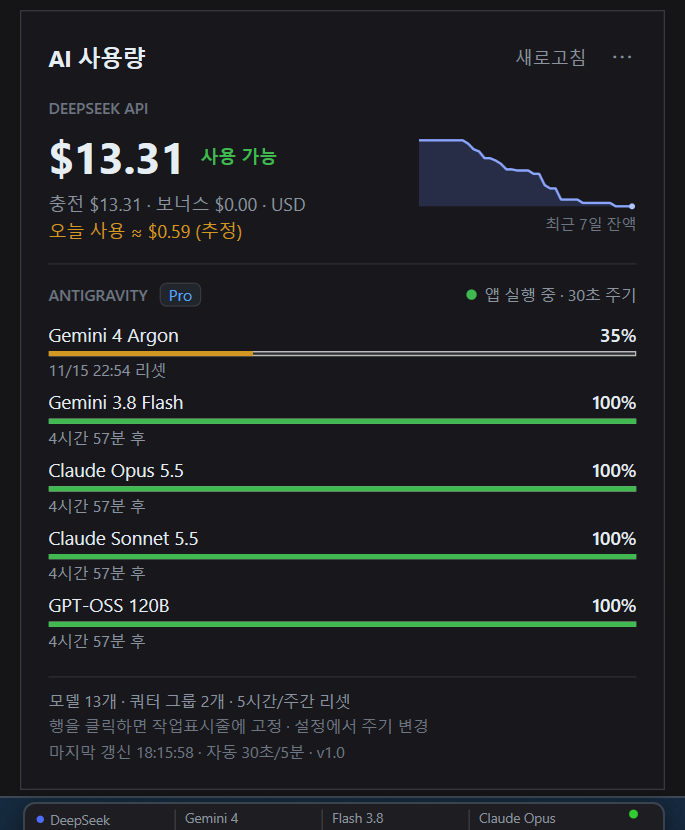
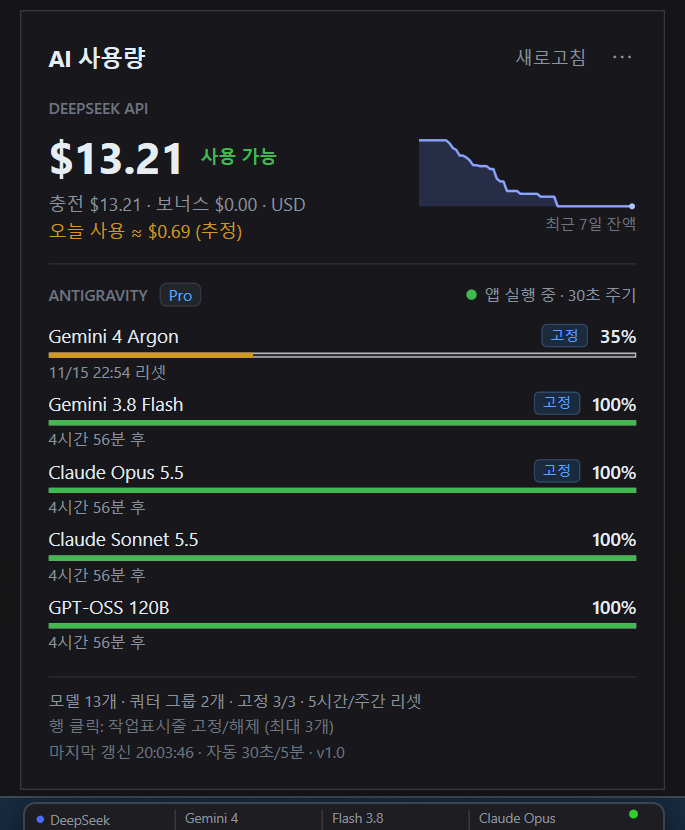
feat(flyout): 고정 상태 표시 추가
핀 고정 후 아무 표시가 없어 혼란스럽다는 피드백 반영.

- 고정된 행에 파란 '고정' 칩 표시 (호버 시 행 배경 강조)
- 요약줄에 '고정 N/3' 표시
- 안내문 '행 클릭: 작업표시줄 고정/해제 (최대 3개)'
- 독은 3슬롯이므로 4번째 고정 시도 시 저장하지 않고
  4초간 앰버 안내 문구 표시
- 행 툴팁을 상태에 따라 '고정/해제'로 변경

검증: 빌드 경고 0, 테스트 20/20, 5행 스크롤 없음, 3개 칩/4번째 거부 안내 스크린샷 확인

diff --git a/src/AiUsageDock.App/FlyoutWindow.xaml b/src/AiUsageDock.App/FlyoutWindow.xaml
@@ -129,7 +129,7 @@
                 <Border BorderBrush="#2A2A31" BorderThickness="0,1,0,0" Margin="0,0,0,8" />
                 <TextBlock x:Name="SummaryText" Text="모델 0개 · 쿼터 그룹 0개 · 5시간/주간 리셋"
                            FontSize="10.5" Foreground="#8B949E" />
-                <TextBlock Text="행을 클릭하면 작업표시줄에 고정 · 설정에서 주기 변경"
+                <TextBlock x:Name="HintText" Text="행 클릭: 작업표시줄 고정/해제 (최대 3개)"
                            FontSize="10.5" Foreground="#6E7681" Margin="0,3,0,0" />
                 <TextBlock x:Name="FooterText" Text="마지막 갱신 --:--:-- · 자동 30초/5분 · v1.0"
                            FontSize="10.5" Foreground="#6E7681" Margin="0,3,0,0" />

diff --git a/src/AiUsageDock.App/FlyoutWindow.xaml.cs b/src/AiUsageDock.App/FlyoutWindow.xaml.cs
@@ -6,6 +6,7 @@ using System.Windows;
 using System.Windows.Controls;
 using System.Windows.Input;
 using System.Windows.Media;
+using System.Windows.Threading;
 using AiUsageDock.Core.Models;
 using AiUsageDock.Core.Scheduling;
 
@@ -19,20 +20,23 @@ public partial class FlyoutWindow : Window
     private static readonly SolidColorBrush Muted = new(Color.FromRgb(0x8B, 0x94, 0x9E));
     private static readonly SolidColorBrush Track = new(Color.FromArgb(0x33, 0x8B, 0x94, 0x9E));
 
+    private const string DefaultHint = "행 클릭: 작업표시줄 고정/해제 (최대 3개)";
+
     private readonly UsageStore _store;
     private readonly Func<Task> _onRefresh;
     private readonly Action _onOpenSettings;
-    private readonly Action<string> _onTogglePin;
+    private readonly Func<string, bool> _onTogglePin;
     private readonly Func<IReadOnlyList<string>> _getPinned;
     private readonly Func<IReadOnlyList<BalanceHistoryPoint>> _getHistory;
     private DateTimeOffset _shownAtUtc;
     private bool _closing;
+    private DispatcherTimer? _hintTimer;
 
     public FlyoutWindow(
         UsageStore store,
         Func<Task> onRefresh,
         Action onOpenSettings,
-        Action<string> onTogglePin,
+        Func<string, bool> onTogglePin,
         Func<IReadOnlyList<string>> getPinned,
         Func<IReadOnlyList<BalanceHistoryPoint>> getHistory)
     {
@@ -129,9 +133,10 @@ public partial class FlyoutWindow : Window
             }
         }
 
+        var pinnedCount = _getPinned()?.Count ?? 0;
         SummaryText.Text = antigravity is null
             ? "수집된 데이터가 없습니다."
-            : $"모델 {antigravity.Models.Count}개 · 쿼터 그룹 {antigravity.PoolCount}개 · 5시간/주간 리셋";
+            : $"모델 {antigravity.Models.Count}개 · 쿼터 그룹 {antigravity.PoolCount}개 · 고정 {pinnedCount}/3 · 5시간/주간 리셋";
 
         FooterText.Text = antigravity is null
             ? "Esc 닫기 · 행 클릭: 핀 고정"
@@ -144,16 +149,22 @@ public partial class FlyoutWindow : Window
         var percent = hasValue ? group.RemainingFraction!.Value * 100.0 : 0.0;
         var accent = !hasValue ? Muted : percent > 40 ? Good : percent > 15 ? Warn : Bad;
 
-        var panel = new StackPanel
+        var row = new Border
         {
-            Margin = new Thickness(0, 0, 0, 6),
-            Cursor = Cursors.Hand,
-            ToolTip = "클릭하여 핀 고정",
             Background = Brushes.Transparent,
+            CornerRadius = new CornerRadius(4),
+            Padding = new Thickness(4, 1, 4, 1),
+            Margin = new Thickness(-4, 0, -4, 4),
+            Cursor = Cursors.Hand,
+            ToolTip = isPinned ? "클릭하여 작업표시줄에서 해제" : "클릭하여 작업표시줄에 고정",
         };
+
+        var panel = new StackPanel();
+        row.Child = panel;
 
         var header = new Grid();
         header.ColumnDefinitions.Add(new ColumnDefinition { Width = new GridLength(1, GridUnitType.Star) });
+        header.ColumnDefinitions.Add(new ColumnDefinition { Width = GridLength.Auto });
         header.ColumnDefinitions.Add(new ColumnDefinition { Width = GridLength.Auto });
 
         var name = new TextBlock
@@ -163,6 +174,27 @@ public partial class FlyoutWindow : Window
             VerticalAlignment = VerticalAlignment.Center,
             TextTrimming = TextTrimming.CharacterEllipsis,
         };
+
+        Border? pinChip = null;
+        if (isPinned)
+        {
+            pinChip = new Border
+            {
+                Background = new SolidColorBrush(Color.FromRgb(0x1B, 0x2A, 0x3D)),
+                BorderBrush = new SolidColorBrush(Color.FromRgb(0x2F, 0x4A, 0x6B)),
+                BorderThickness = new Thickness(1),
+                CornerRadius = new CornerRadius(3),
+                Padding = new Thickness(5, 0, 5, 1),
+                Margin = new Thickness(7, 0, 0, 0),
+                VerticalAlignment = VerticalAlignment.Center,
+                Child = new TextBlock
+                {
+                    Text = "고정",
+                    FontSize = 9.5,
+                    Foreground = new SolidColorBrush(Color.FromRgb(0x58, 0xA6, 0xFF)),
+                },
+            };
+        }
 
         var percentText = new TextBlock
         {
@@ -174,9 +206,15 @@ public partial class FlyoutWindow : Window
             VerticalAlignment = VerticalAlignment.Center,
         };
 
-        Grid.SetColumn(percentText, 1);
+        Grid.SetColumn(name, 0);
+        Grid.SetColumn(percentText, 2);
         header.Children.Add(name);
         header.Children.Add(percentText);
+        if (pinChip is not null)
+        {
+            Grid.SetColumn(pinChip, 1);
+            header.Children.Add(pinChip);
+        }
 
         var bar = new ProgressBar
         {
@@ -201,14 +239,38 @@ public partial class FlyoutWindow : Window
         panel.Children.Add(bar);
         panel.Children.Add(reset);
 
-        panel.MouseLeftButtonUp += (_, e) =>
+        var hover = new SolidColorBrush(Color.FromRgb(0x1E, 0x22, 0x29));
+        row.MouseEnter += (_, _) => row.Background = hover;
+        row.MouseLeave += (_, _) => row.Background = Brushes.Transparent;
+        row.MouseLeftButtonUp += (_, e) =>
         {
             e.Handled = true;
-            _onTogglePin(group.Family);
+            var applied = _onTogglePin(group.Family);
+            if (!applied)
+            {
+                ShowHint("독에는 최대 3개까지 고정할 수 있습니다. 하나를 해제한 뒤 다시 시도하세요.");
+            }
+
             RenderSnapshot();
         };
 
-        return panel;
+        return row;
+    }
+
+    private void ShowHint(string message)
+    {
+        HintText.Text = message;
+        HintText.Foreground = new SolidColorBrush(Color.FromRgb(0xD2, 0x99, 0x22));
+
+        _hintTimer?.Stop();
+        _hintTimer = new DispatcherTimer { Interval = TimeSpan.FromSeconds(4) };
+        _hintTimer.Tick += (_, _) =>
+        {
+            _hintTimer?.Stop();
+            HintText.Text = DefaultHint;
+            HintText.Foreground = Muted;
+        };
+        _hintTimer.Start();
     }
 
     private void OnMoreClick(object sender, RoutedEventArgs e)

diff --git a/src/AiUsageDock.App/MainWindow.UpdateUi.cs b/src/AiUsageDock.App/MainWindow.UpdateUi.cs
@@ -216,13 +216,29 @@ namespace AiUsageDock.App
 
         private static readonly string[] DefaultPinned = { "gemini-4-argon", "gemini-3.8-flash", "claude-opus-5-5" };
 
-        private void TogglePin(string family)
+        private bool TogglePin(string family)
         {
             var list = (_settings.Pinned ?? Array.Empty<string>()).ToList();
-            if (!list.Remove(family)) list.Add(family);
+
+            if (list.Remove(family))
+            {
+                _settings = _settings with { Pinned = list };
+                _settingsStore.Save(_settings);
+                UpdateDockUi();
+                return true;
+            }
+
+            // The dock has exactly three slots; refuse a fourth pin instead of silently hiding it.
+            if (list.Count >= 3)
+            {
+                return false;
+            }
+
+            list.Add(family);
             _settings = _settings with { Pinned = list };
             _settingsStore.Save(_settings);
             UpdateDockUi();
+            return true;
         }
 
         private IReadOnlyList<string> GetPinned() => _settings.Pinned ?? DefaultPinned;
